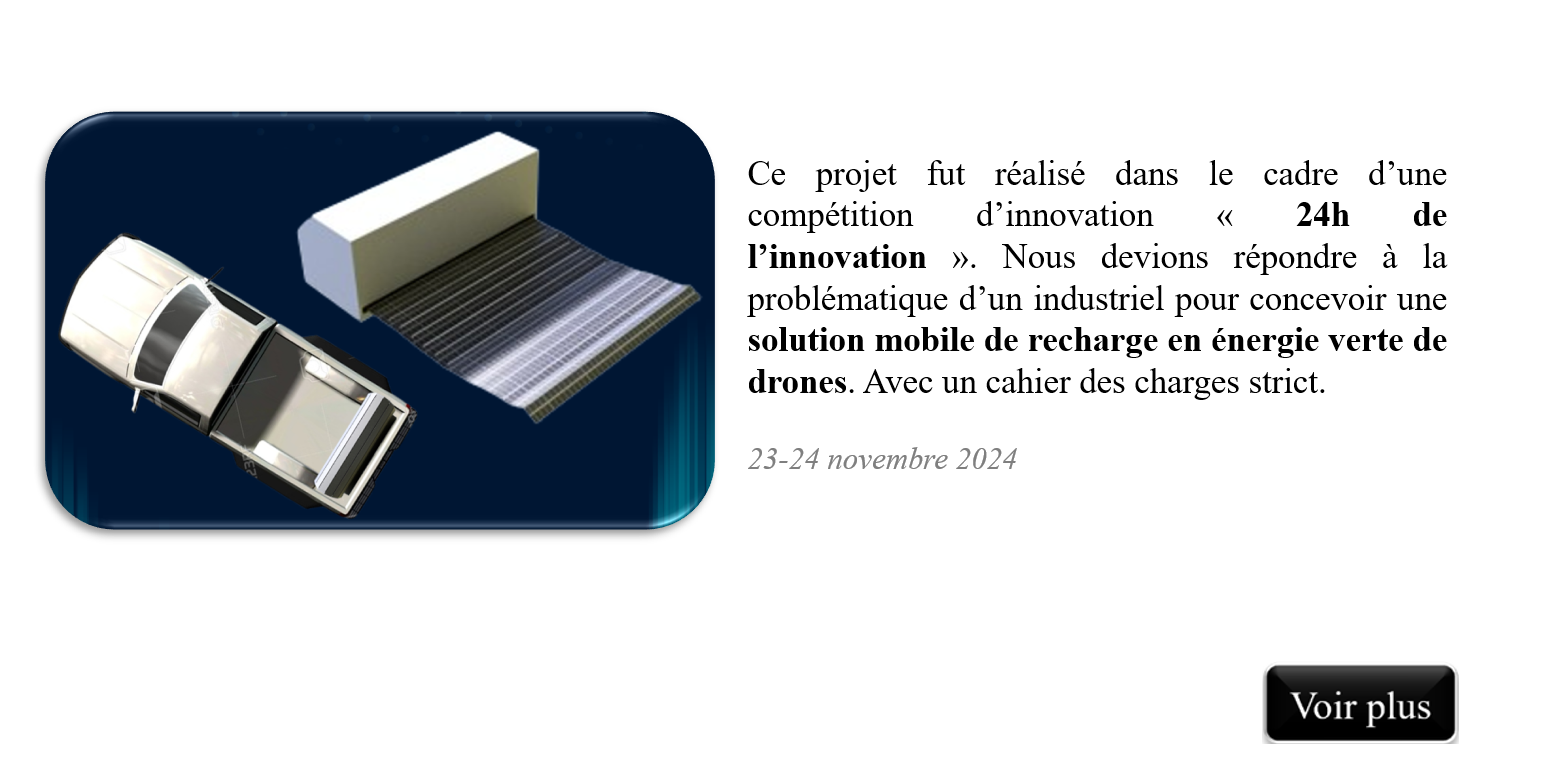
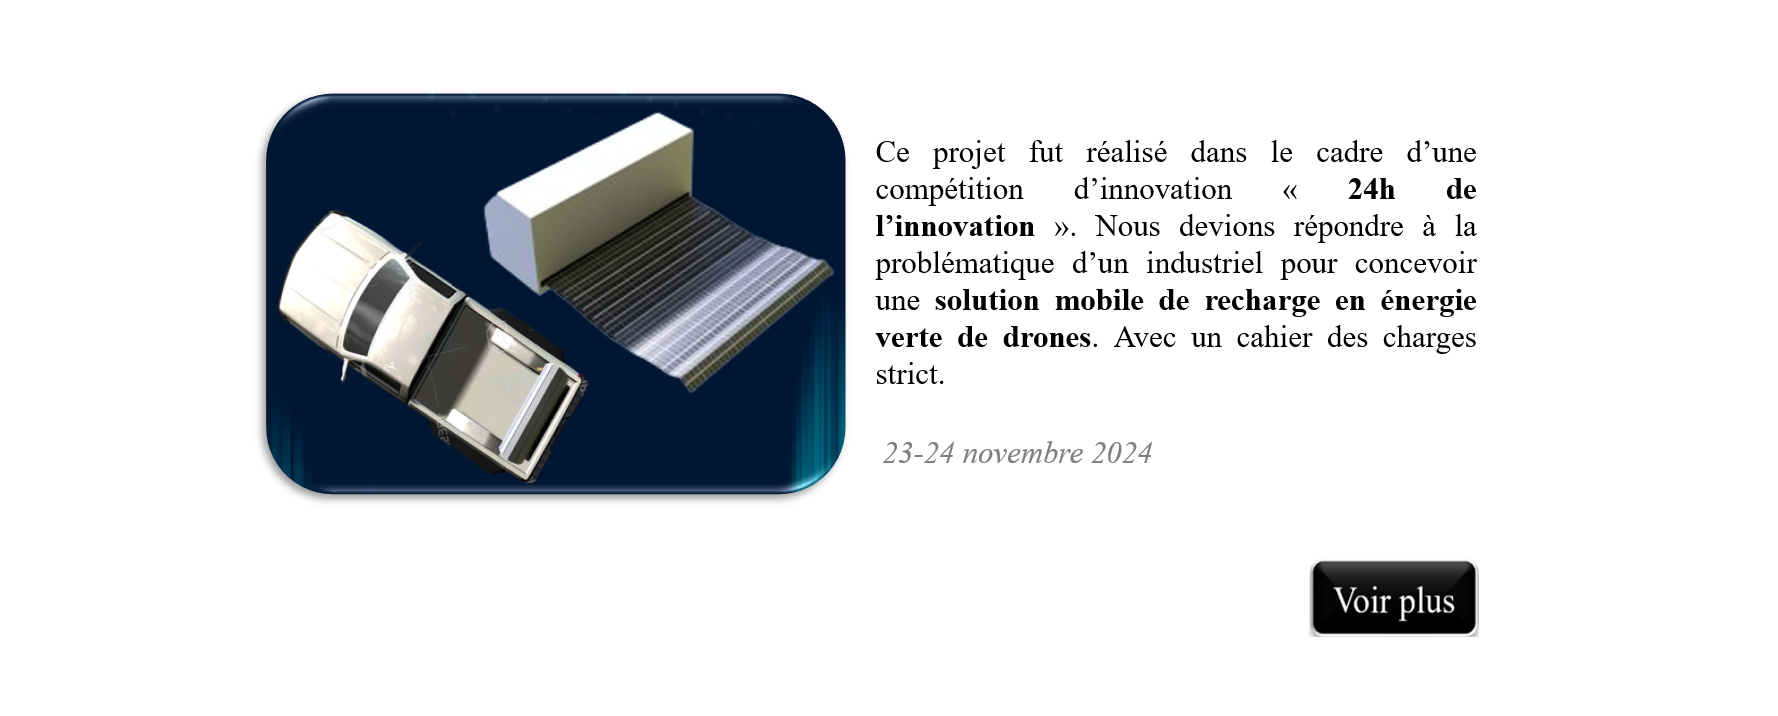
cover

Changed region(s): [[0.0, 0.1229, 0.932, 0.7067], [0.7146, 0.7682, 0.9631, 0.9832]]

diff --git a/src/content/work/nested/Projet industriel.md b/src/content/work/nested/Projet industriel.md
@@ -1,7 +1,7 @@
 ---
 title: Projet industriel
 publishDate: 2020-03-02 00:00:00
-img: /assets/Projet industriel2.png
+img: /assets/Projet industriel.png
 img_alt: Iridescent ripples of a bright blue and pink liquid
 description: |
   Réalisation d'une solution téchnique pour un industriel
